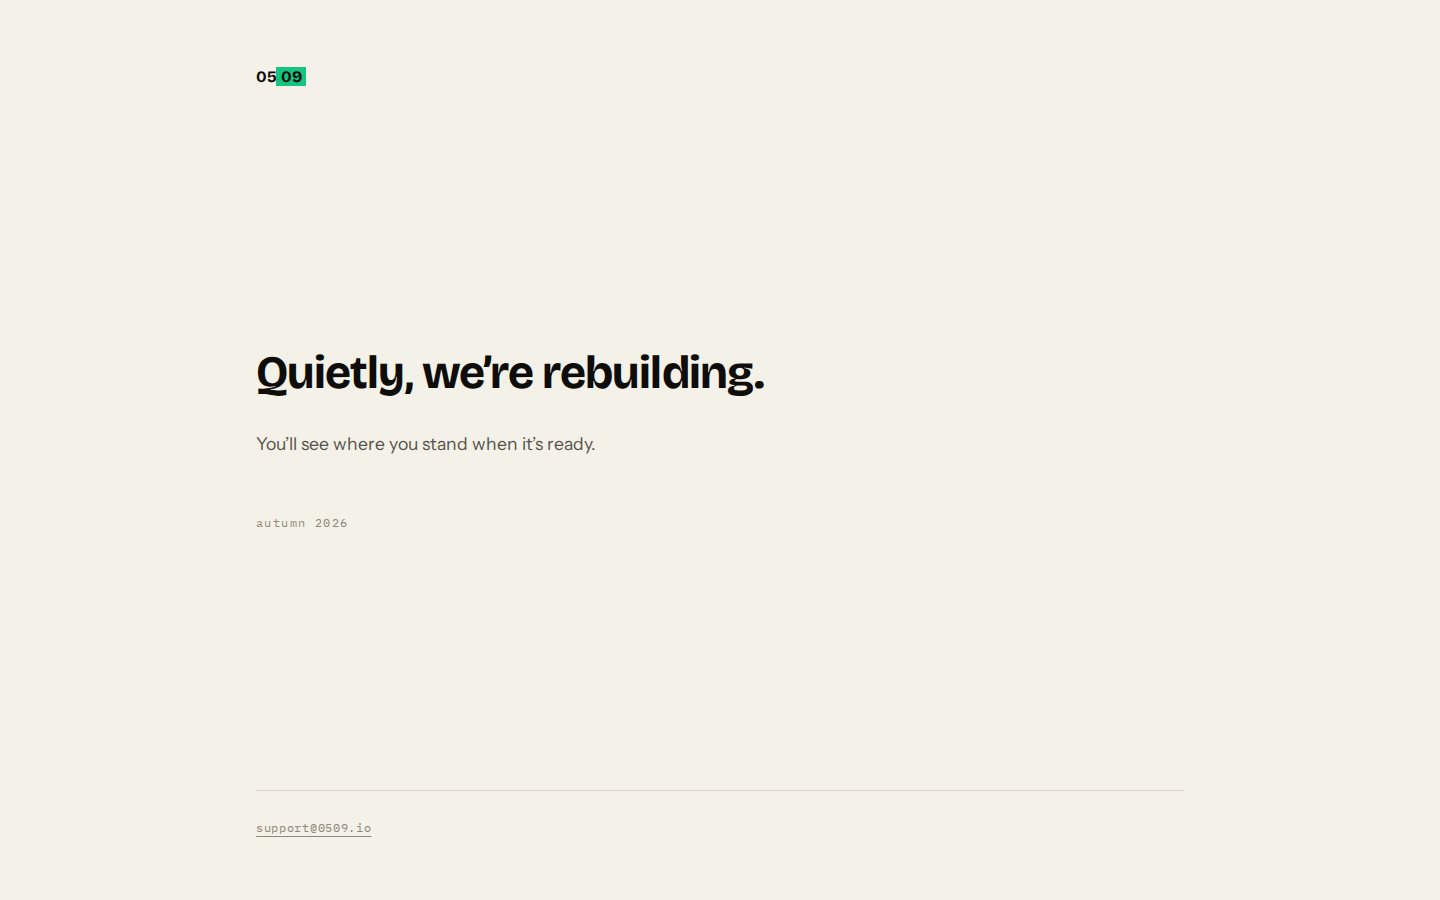
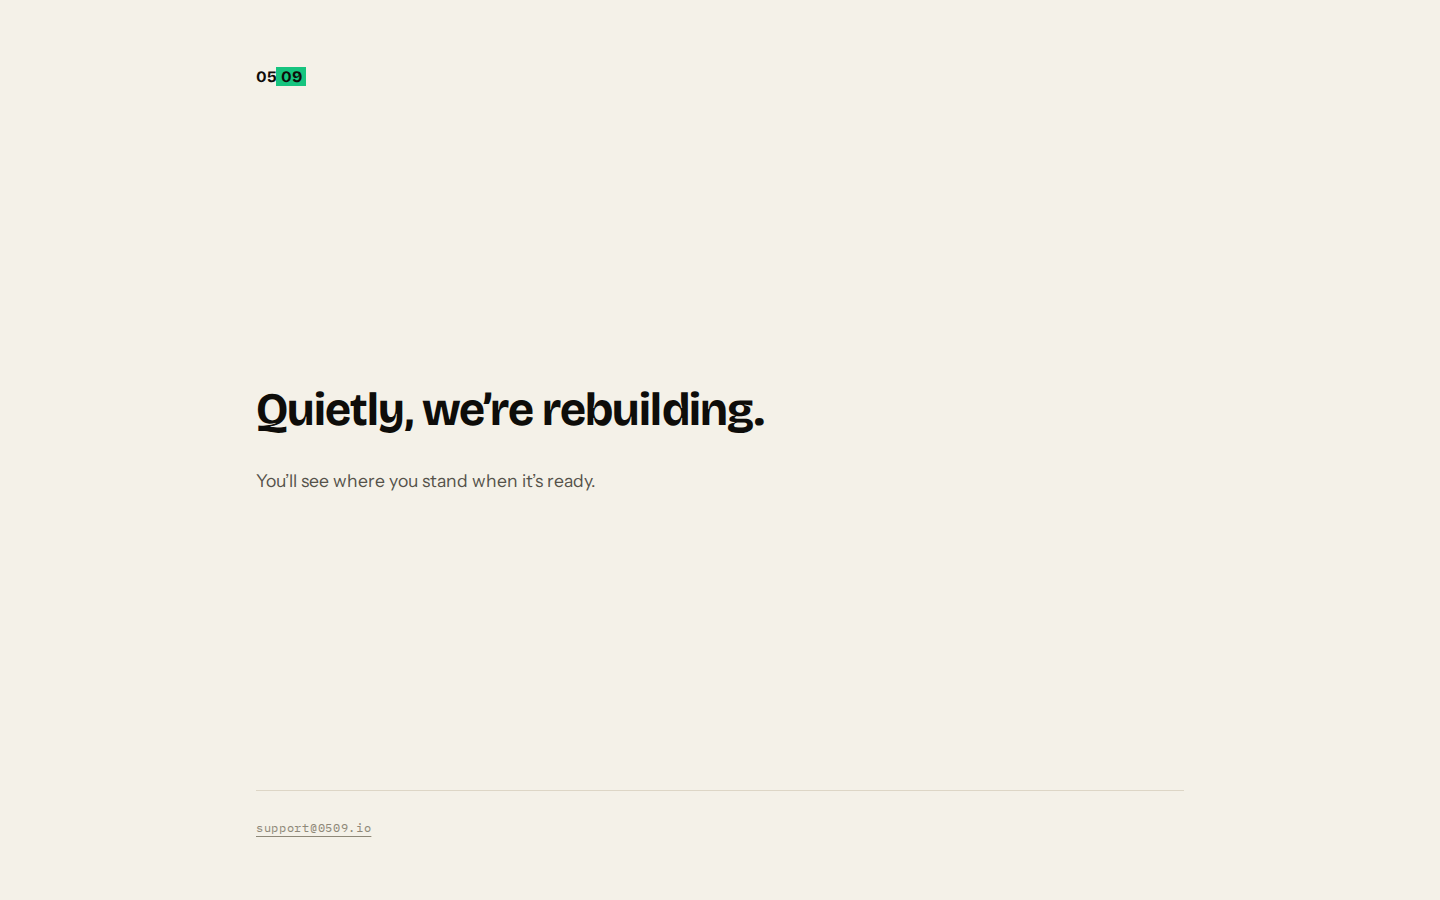
feat(landing): no date — four things remain
Nish: no date. The 'autumn 2026' line is gone from the page and from the meta
description that was carrying it too.

Left: the wordmark, the headline, one sentence, the address. A date on a
coming-soon page is a promise that ages in public, and this one would have gone
stale without anyone noticing — that reason is now in the comment so nobody
adds it back.

Changed region(s): [[0.1562, 0.3733, 0.5312, 0.4978], [0.1875, 0.5289, 0.4062, 0.5911]]

diff --git a/app/routes/landing.tsx b/app/routes/landing.tsx
@@ -11,7 +11,7 @@ export function meta(_: Route.MetaArgs) {
     {
       name: "description",
       content:
-        "Quietly, we're rebuilding. You'll see where you stand when it's ready. Autumn 2026.",
+        "Quietly, we're rebuilding. You'll see where you stand when it's ready.",
     },
     // noindex while the public site is gated behind the redesign. This comes
     // off in the PR that removes the gate — not before, and not separately.
@@ -22,11 +22,14 @@ export function meta(_: Route.MetaArgs) {
 /**
  * The public site while the rebuild is in progress.
  *
- * Five things, and nothing else: the wordmark, the headline, one sentence, the
- * date, the address. Earlier versions carried a shouted caps headline, a struck
- * "old site → new site" mark, a mono eyebrow and a breathing dot; Nish cut all
- * of it. What is left is quiet on purpose, and the only colour on the page is
- * the wordmark's 09.
+ * Four things, and nothing else: the wordmark, the headline, one sentence, the
+ * address. Earlier versions carried a shouted caps headline, a struck
+ * "old site → new site" mark, a mono eyebrow, a breathing dot and a date; Nish
+ * cut all of it. What is left is quiet on purpose, and the only colour on the
+ * page is the wordmark's 09.
+ *
+ * No date on purpose too: a date on a coming-soon page is a promise that ages
+ * badly in public, and this one would have gone stale without anyone noticing.
  *
  * Deliberately static — no loader, no state, no client behaviour beyond the
  * framework's own hydration, and no animation at all.
@@ -47,10 +50,6 @@ export default function Page() {
 
         <p className="text-ink-soft mt-7 text-[clamp(1rem,1.3vw,1.1rem)] leading-[1.65]">
           You&rsquo;ll see where you stand when it&rsquo;s ready.
-        </p>
-
-        <p className="text-ink-faint mt-14 font-mono text-[0.74rem] tracking-[0.12em] lowercase">
-          autumn 2026
         </p>
       </div>
 
